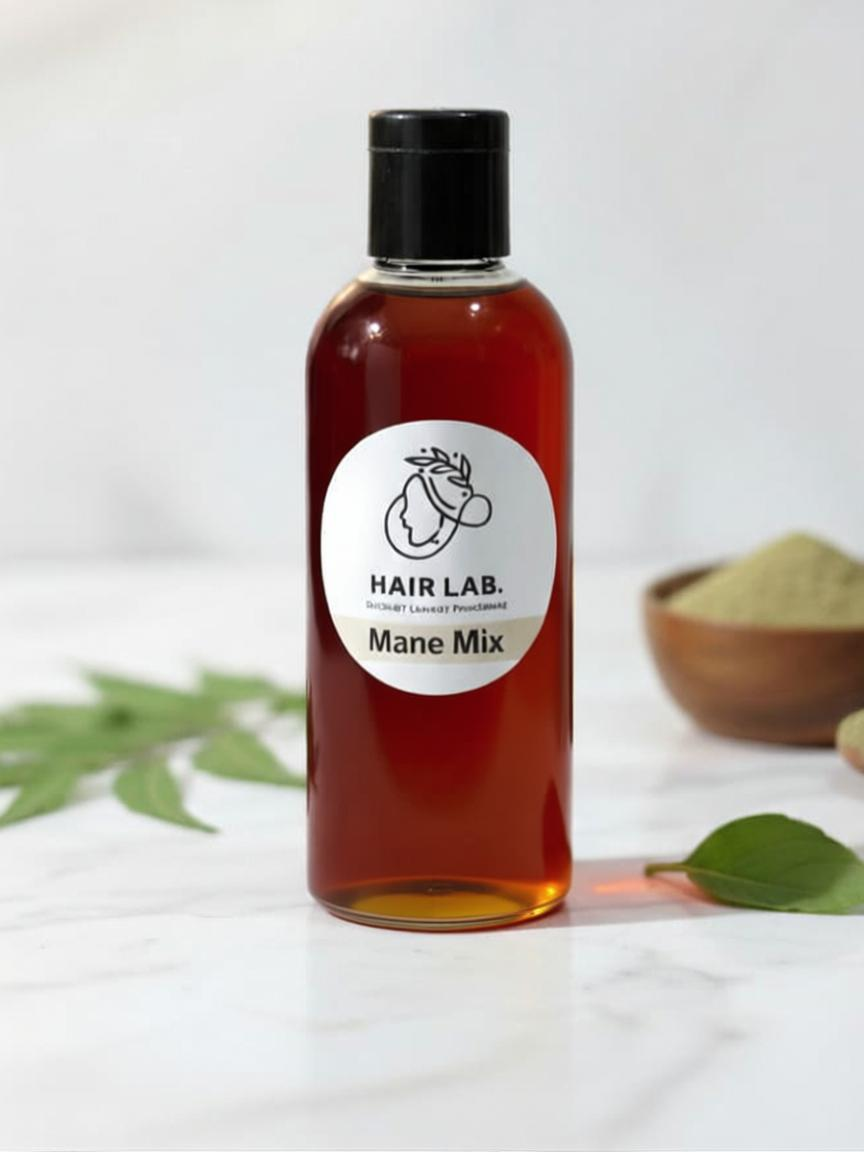
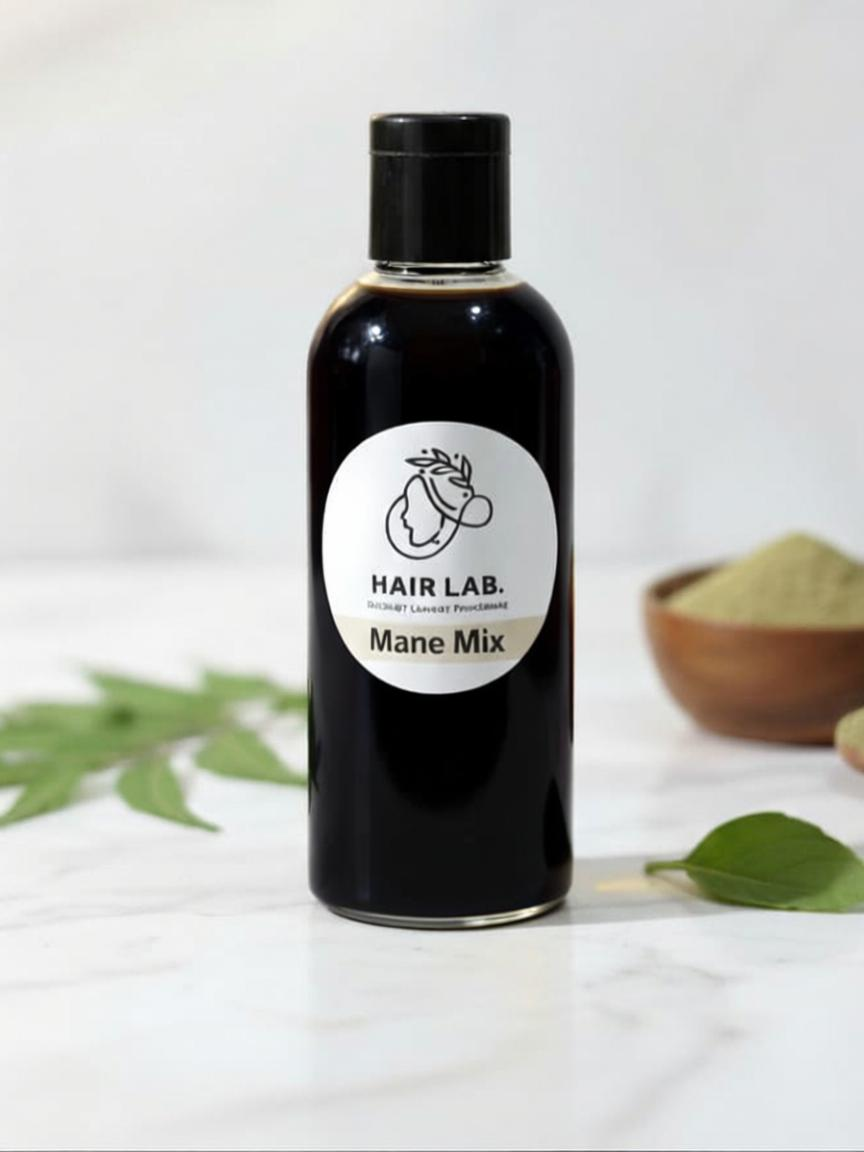
Final fixes: dark Mane bottle, testimonial updates, removed Ayurveda, new headline
- Mane bottle re-edited: very dark amber, almost black (like molasses/coffee)
- Testimonials updated:
  * Neelam R. → 'Jahnvi' (Hyderabad) — 'Neelam smells so good. 4.5/5.'
  * Dhanu K. — kept as is
  * Mukta S. → Mukta K.
  * Lakshmi P. — rewritten: 'I mixed it with Mane oil and tea decoction. The best. I also mixed curd once. That's it.'
- Removed 'Ayurveda' word everywhere:
  * Sesame note: 'Ayurvedic base' → 'heritage base'
  * Ojas description: 'Ayurvedic herbs' → 'botanical herbs', 'yogurt' → 'your favourite oil'
- Brand story headline rewritten: 'Hair has a memory. We'd rather it remember care.' → 'Roots run deep. Rituals run deeper.' (grammatically cleaner)

diff --git a/src/app/page.tsx b/src/app/page.tsx
@@ -60,7 +60,7 @@ const favHerbs = [
   { name: "Hibiscus", note: "Softens, conditions, revives" },
   { name: "Fenugreek", note: "Protein, shine, strength" },
   { name: "Black Seed Oil", note: "Anti-inflammatory heritage" },
-  { name: "Sesame", note: "The Ayurvedic base, slow-infused" },
+  { name: "Sesame", note: "The heritage base, slow-infused" },
   { name: "Pumpkin Seed Oil", note: "Rich in zinc, for scalp health" },
   { name: "Curry Leaf", note: "South Indian heritage staple" },
 ];
@@ -68,8 +68,8 @@ const favHerbs = [
 const testimonials = [
   {
     quote:
-      "Three weeks with Neelam. My grandmother asked what I was doing differently. I told her: just the oil, every night — like she taught me.",
-    name: "Neelam R.",
+      "Neelam smells so good. 4.5/5.",
+    name: "Jahnvi",
     place: "Hyderabad, Telangana",
   },
   {
@@ -81,12 +81,12 @@ const testimonials = [
   {
     quote:
       "The Kāru comb is the most underrated product on the site. I use it morning and night — neem wood feels different on the scalp. No static, no snags.",
-    name: "Mukta S.",
+    name: "Mukta K.",
     place: "Hyderabad, Telangana",
   },
   {
     quote:
-      "Ojas powder mask felt dry and chalky the first time. Then Sruwa told me to mix a few drops of Mane oil into the paste before applying. Game-changer. Soft, conditioned hair after one use.",
+      "I mixed it with Mane oil and tea decoction. The best. I also mixed curd once. That's it.",
     name: "Lakshmi P.",
     place: "Hyderabad, Telangana",
   },
@@ -299,10 +299,9 @@ export default function Home() {
               </span>
             </div>
             <h2 className="font-[family-name:var(--font-playfair)] text-4xl sm:text-5xl text-[#2C2416] leading-tight">
-              Hair has a memory.
+              Roots run deep.
               <br />
-              We&apos;d rather it remember
-              <span className="italic text-[#B8553C]"> care.</span>
+              <span className="italic text-[#B8553C]">Rituals run deeper.</span>
             </h2>
             <div className="mt-8 space-y-5 text-[#2C2416]/75 leading-relaxed font-[family-name:var(--font-inter)]">
               <p>

diff --git a/scripts/edit-mane-darkest.ts b/scripts/edit-mane-darkest.ts
@@ -1,0 +1,51 @@
+// Re-edit Mane bottle to VERY DARK amber, almost black
+import ZAI from 'z-ai-web-dev-sdk';
+import fs from 'fs';
+import path from 'path';
+
+const PRODUCTS_DIR = '/home/z/my-project/public/products';
+
+function fileToBase64DataUrl(filePath: string, mimeType: string = 'image/jpeg'): string {
+  const buffer = fs.readFileSync(filePath);
+  const base64 = buffer.toString('base64');
+  return `data:${mimeType};base64,${base64}`;
+}
+
+async function main() {
+  console.log('🎨 Re-editing Mane to VERY DARK amber (almost black)...\n');
+  
+  const zai = await ZAI.create();
+  
+  const input = path.join(PRODUCTS_DIR, 'mane-original.jpg');
+  const output = path.join(PRODUCTS_DIR, 'mane.jpg');
+  
+  const imageDataUrl = fileToBase64DataUrl(input);
+
+  const prompt = `Photorealistic product photograph. Keep the EXACT same bottle shape, glass bottle, black cap, and the white round label with text unchanged — DO NOT change the bottle, label, or label design.
+  
+  Change ONLY the color of the oil INSIDE the bottle to a VERY DARK, DEEP BROWN-BLACK — almost black, like extremely dark molasses, dark roast coffee, or black tar. NOT amber, NOT red, NOT orange, NOT honey. Very dark, near-black brown.
+  
+  Keep the marble surface, soft natural daylight, fresh green neem leaves around. Real photographic quality — no illustration, no painting, no surreal colors. Authentic botanical product photography.`;
+
+  try {
+    const response = await zai.images.generations.edit({
+      prompt,
+      images: [{ url: imageDataUrl }],
+      size: '864x1152',
+    });
+
+    const buffer = Buffer.from(response.data[0].base64, 'base64');
+    fs.writeFileSync(output, buffer);
+    console.log(`✓ Mane saved: ${output} (${(buffer.length / 1024).toFixed(1)} KB)`);
+  } catch (error: any) {
+    console.error(`❌ Failed: ${error.message}`);
+  }
+
+  fs.unlinkSync(input);
+  console.log('\n✅ Done!');
+}
+
+main().catch(e => {
+  console.error('Fatal:', e);
+  process.exit(1);
+});

diff --git a/src/lib/products.ts b/src/lib/products.ts
@@ -69,7 +69,7 @@ export const products: Product[] = [
     name: "Ojas",
     subtitle: "Power Mix Hair Mask",
     description:
-      "Handcrafted all-in-one power masks. Blend fresh, apply, repeat. A weekly ritual of hibiscus, fenugreek, and Ayurvedic herbs mixed fresh into a powder base — activated with water or yogurt when you're ready.",
+      "Handcrafted all-in-one power masks. Blend fresh, apply, repeat. A weekly ritual of hibiscus, fenugreek, and botanical herbs mixed fresh into a powder base — activated with water or your favourite oil.",
     price: 18900,
     volume: "100 g",
     image: "/products/ojas.jpg",
